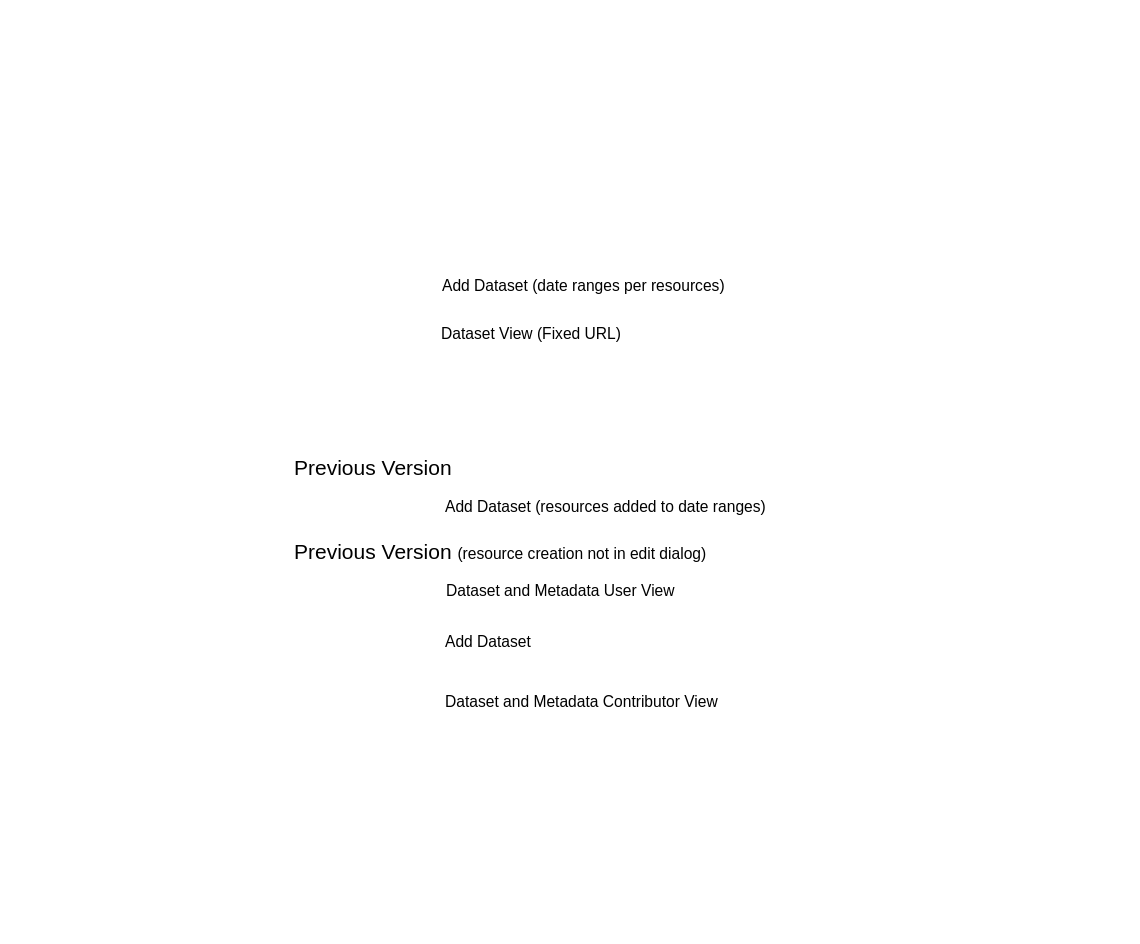
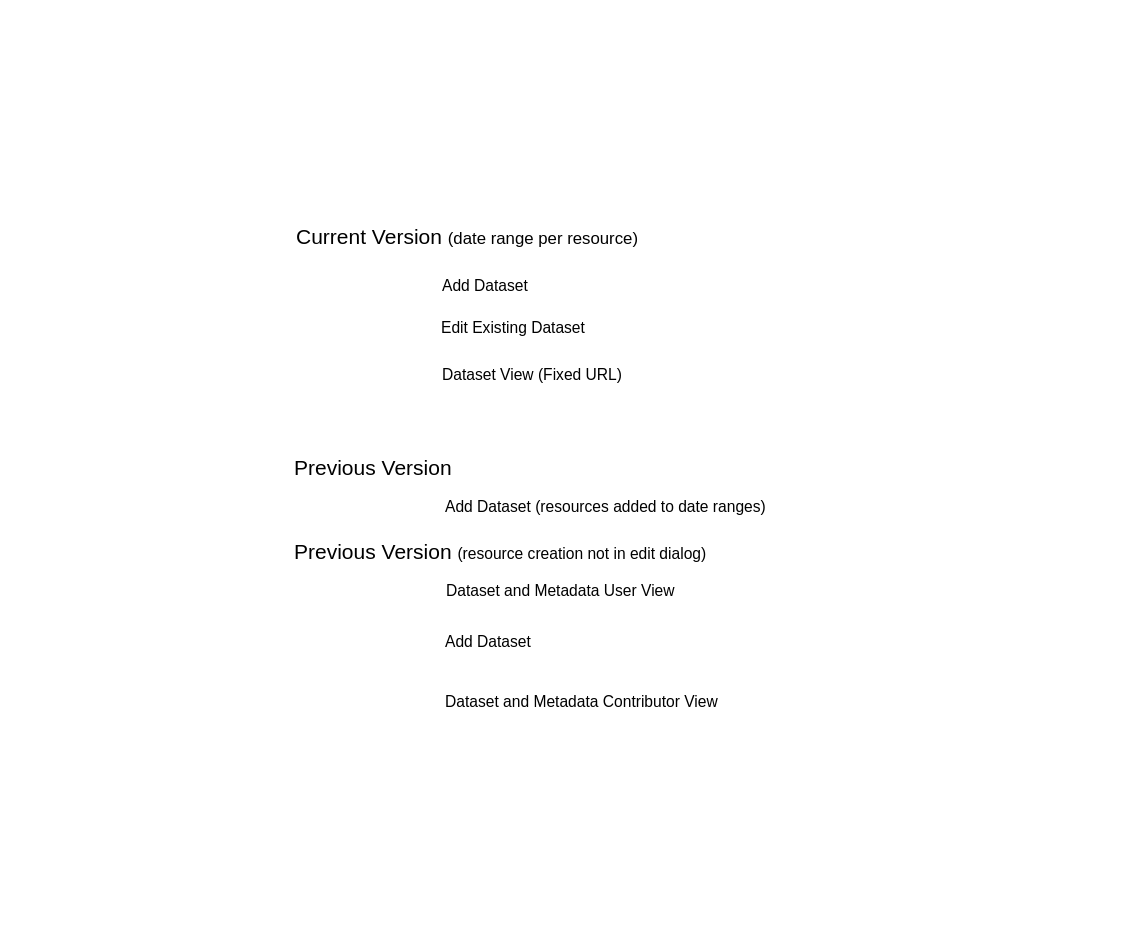
Update

Changed region(s): [[0.2763, 0.2458, 0.6447, 0.3072], [0.3684, 0.3379, 0.5526, 0.3994]]

diff --git a/index.html b/index.html
@@ -1,4 +1,4 @@
 <html xmlns="http://www.w3.org/1999/xhtml" xmlns:p="http://www.evolus.vn/Namespace/Pencil" xmlns:html="http://www.w3.org/1999/xhtml"><head><meta http-equiv="Content-Type" content="text/html; charset=UTF-8" />
 <meta name="viewport" content="width=device-width, initial-scale=1" /><title>DataResources</title><script type="text/javascript" src="Resources/Script.js">
                     //
-                </script></head><body><div id="page"><div id="content"><div class="Page" id="index_page"><div class="Image"><img src="pages/index.png" width="1140" height="944" usemap="#map_index" id="index_page_image" /><div class="ImageFooter"> </div><map name="map_index"><area shape="rect" coords="441,323,621,345" href="#datasetview_page" /><area shape="rect" coords="442,275,725,297" href="#adddatasettabresourceswithdates_page" /><area shape="rect" coords="445,496,766,518" href="#adddatasettabresources_page" /><area shape="rect" coords="445,631,531,653" href="#adddataset_page" /><area shape="rect" coords="445,691,718,713" href="#dataresources2018contrib_page" /><area shape="rect" coords="446,580,675,602" href="#2018dataresources_page" /></map></div></div><div class="Page" id="2018dataresources_page"><div class="Image"><img src="pages/2018dataresources.png" width="1140" height="944" usemap="#map_2018dataresources" id="2018dataresources_page_image" /><div class="ImageFooter"> </div><map name="map_2018dataresources"><area shape="rect" coords="465,800,502,827" href="#2018auxiliarypopulationreportpdf_page" /><area shape="rect" coords="462,729,498,754" href="#2018auxiliarydefinitionstxt_page" /><area shape="rect" coords="521,553,558,579" href="#2018mappopulationmapzippedshp_page" /><area shape="rect" coords="465,553,500,578" href="#2018mappopulationmapgeojson_page" /><area shape="rect" coords="465,295,502,319" href="#2018tabularpopulationaffectedcsv_page" /><area shape="rect" coords="521,295,557,319" href="#2018tabularpopulationaffectedxls_page" /><area shape="rect" coords="168,131,208,187" href="#2017dataresources_page" /></map></div></div><div class="Page" id="2017dataresources_page"><div class="Image"><img src="pages/2017dataresources.png" width="1140" height="944" usemap="#map_2017dataresources" id="2017dataresources_page_image" /><div class="ImageFooter"> </div><map name="map_2017dataresources"><area shape="rect" coords="263,132,303,186" href="#dataresources2016menu_page" /><area shape="rect" coords="77,132,117,186" href="#2018dataresources_page" /></map></div></div><div class="Page" id="2018tabularpopulationaffectedcsv_page"><div class="Image"><img src="pages/2018tabularpopulationaffectedcsv.png" width="1140" height="944" usemap="#map_2018tabularpopulationaffectedcsv" id="2018tabularpopulationaffectedcsv_page_image" /><div class="ImageFooter"> </div><map name="map_2018tabularpopulationaffectedcsv"><area shape="rect" coords="465,800,502,827" href="#2018auxiliarypopulationreportpdf_page" /><area shape="rect" coords="462,729,498,754" href="#2018auxiliarydefinitionstxt_page" /><area shape="rect" coords="521,553,558,579" href="#2018mappopulationmapzippedshp_page" /><area shape="rect" coords="465,553,500,578" href="#2018mappopulationmapgeojson_page" /><area shape="rect" coords="521,295,557,319" href="#2018tabularpopulationaffectedxls_page" /><area shape="rect" coords="168,131,208,187" href="#2017dataresources_page" /></map></div></div><div class="Page" id="2018tabularpopulationaffectedxls_page"><div class="Image"><img src="pages/2018tabularpopulationaffectedxls.png" width="1140" height="944" usemap="#map_2018tabularpopulationaffectedxls" id="2018tabularpopulationaffectedxls_page_image" /><div class="ImageFooter"> </div><map name="map_2018tabularpopulationaffectedxls"><area shape="rect" coords="465,800,502,827" href="#2018auxiliarypopulationreportpdf_page" /><area shape="rect" coords="462,729,498,754" href="#2018auxiliarydefinitionstxt_page" /><area shape="rect" coords="521,553,558,579" href="#2018mappopulationmapzippedshp_page" /><area shape="rect" coords="465,553,500,578" href="#2018mappopulationmapgeojson_page" /><area shape="rect" coords="465,295,502,319" href="#2018tabularpopulationaffectedcsv_page" /><area shape="rect" coords="168,131,208,187" href="#2017dataresources_page" /></map></div></div><div class="Page" id="2018mappopulationmapgeojson_page"><div class="Image"><img src="pages/2018mappopulationmapgeojson.png" width="1140" height="944" usemap="#map_2018mappopulationmapgeojson" id="2018mappopulationmapgeojson_page_image" /><div class="ImageFooter"> </div><map name="map_2018mappopulationmapgeojson"><area shape="rect" coords="465,800,502,827" href="#2018auxiliarypopulationreportpdf_page" /><area shape="rect" coords="462,729,498,754" href="#2018auxiliarydefinitionstxt_page" /><area shape="rect" coords="521,553,558,579" href="#2018mappopulationmapzippedshp_page" /><area shape="rect" coords="465,295,502,319" href="#2018tabularpopulationaffectedcsv_page" /><area shape="rect" coords="521,295,557,319" href="#2018tabularpopulationaffectedxls_page" /><area shape="rect" coords="168,131,208,187" href="#2017dataresources_page" /></map></div></div><div class="Page" id="2018mappopulationmapzippedshp_page"><div class="Image"><img src="pages/2018mappopulationmapzippedshp.png" width="1140" height="944" usemap="#map_2018mappopulationmapzippedshp" id="2018mappopulationmapzippedshp_page_image" /><div class="ImageFooter"> </div><map name="map_2018mappopulationmapzippedshp"><area shape="rect" coords="465,800,502,827" href="#2018auxiliarypopulationreportpdf_page" /><area shape="rect" coords="462,729,498,754" href="#2018auxiliarydefinitionstxt_page" /><area shape="rect" coords="465,553,500,578" href="#2018mappopulationmapgeojson_page" /><area shape="rect" coords="465,295,502,319" href="#2018tabularpopulationaffectedcsv_page" /><area shape="rect" coords="521,295,557,319" href="#2018tabularpopulationaffectedxls_page" /><area shape="rect" coords="168,131,208,187" href="#2017dataresources_page" /></map></div></div><div class="Page" id="2018auxiliarydefinitionstxt_page"><div class="Image"><img src="pages/2018auxiliarydefinitionstxt.png" width="1140" height="944" usemap="#map_2018auxiliarydefinitionstxt" id="2018auxiliarydefinitionstxt_page_image" /><div class="ImageFooter"> </div><map name="map_2018auxiliarydefinitionstxt"><area shape="rect" coords="465,800,502,827" href="#2018auxiliarypopulationreportpdf_page" /><area shape="rect" coords="521,553,558,579" href="#2018mappopulationmapzippedshp_page" /><area shape="rect" coords="465,553,500,578" href="#2018mappopulationmapgeojson_page" /><area shape="rect" coords="465,295,502,319" href="#2018tabularpopulationaffectedcsv_page" /><area shape="rect" coords="521,295,557,319" href="#2018tabularpopulationaffectedxls_page" /><area shape="rect" coords="168,131,208,187" href="#2017dataresources_page" /></map></div></div><div class="Page" id="2018auxiliarypopulationreportpdf_page"><div class="Image"><img src="pages/2018auxiliarypopulationreportpdf.png" width="1140" height="944" usemap="#map_2018auxiliarypopulationreportpdf" id="2018auxiliarypopulationreportpdf_page_image" /><div class="ImageFooter"> </div><map name="map_2018auxiliarypopulationreportpdf"><area shape="rect" coords="462,729,498,754" href="#2018auxiliarydefinitionstxt_page" /><area shape="rect" coords="521,553,558,579" href="#2018mappopulationmapzippedshp_page" /><area shape="rect" coords="465,553,500,578" href="#2018mappopulationmapgeojson_page" /><area shape="rect" coords="465,295,502,319" href="#2018tabularpopulationaffectedcsv_page" /><area shape="rect" coords="521,295,557,319" href="#2018tabularpopulationaffectedxls_page" /><area shape="rect" coords="168,131,208,187" href="#2017dataresources_page" /></map></div></div><div class="Page" id="dataresources2016menu_page"><div class="Image"><img src="pages/dataresources2016menu.png" width="1140" height="944" usemap="#map_dataresources2016menu" id="dataresources2016menu_page_image" /><div class="ImageFooter"> </div><map name="map_dataresources2016menu"><area shape="rect" coords="78,131,117,186" href="#2018dataresources_page" /><area shape="rect" coords="465,800,502,827" href="#2018auxiliarypopulationreportpdf_page" /><area shape="rect" coords="462,729,498,754" href="#2018auxiliarydefinitionstxt_page" /><area shape="rect" coords="521,553,558,579" href="#2018mappopulationmapzippedshp_page" /><area shape="rect" coords="465,553,500,578" href="#2018mappopulationmapgeojson_page" /><area shape="rect" coords="465,295,502,319" href="#2018tabularpopulationaffectedcsv_page" /><area shape="rect" coords="521,295,557,319" href="#2018tabularpopulationaffectedxls_page" /></map></div></div><div class="Page" id="dataresources2018contrib_page"><div class="Image"><img src="pages/dataresources2018contrib.png" width="1140" height="944" usemap="#map_dataresources2018contrib" id="dataresources2018contrib_page_image" /><div class="ImageFooter"> </div><map name="map_dataresources2018contrib"><area shape="rect" coords="575,298,604,342" href="#dataresources2018contribaddresource_page" /><area shape="rect" coords="370,219,470,277" href="#addresourceexisting_page" /><area shape="rect" coords="950,10,1066,85.609375" href="#dataresources2018contribpublic_page" /><area shape="rect" coords="263,131,303,186" href="#dataresources2016menu_page" /><area shape="rect" coords="464,804,501,831" href="#2018auxiliarypopulationreportpdf_page" /><area shape="rect" coords="461,733,497,758" href="#2018auxiliarydefinitionstxt_page" /><area shape="rect" coords="521,553,558,579" href="#2018mappopulationmapzippedshp_page" /><area shape="rect" coords="465,553,500,578" href="#2018mappopulationmapgeojson_page" /><area shape="rect" coords="464,299,501,323" href="#2018tabularpopulationaffectedcsv_page" /><area shape="rect" coords="520,299,556,323" href="#2018tabularpopulationaffectedxls_page" /><area shape="rect" coords="168,131,208,187" href="#2017dataresources_page" /></map></div></div><div class="Page" id="addresource_page"><div class="Image"><img src="pages/addresource.png" width="1140" height="944" usemap="#map_addresource" id="addresource_page_image" /><div class="ImageFooter"> </div></div></div><div class="Page" id="adddataset_page"><div class="Image"><img src="pages/adddataset.png" width="717" height="950" usemap="#map_adddataset" id="adddataset_page_image" /><div class="ImageFooter"> </div><map name="map_adddataset"><area shape="rect" coords="649,920,704,946" href="#noresources_page" /></map></div></div><div class="Page" id="noresources_page"><div class="Image"><img src="pages/noresources.png" width="1140" height="944" usemap="#map_noresources" id="noresources_page_image" /><div class="ImageFooter"> </div><map name="map_noresources"><area shape="rect" coords="370,219,470,277" href="#addresource_page" /></map></div></div><div class="Page" id="dataresources2018contribpublic_page"><div class="Image"><img src="pages/dataresources2018contribpublic.png" width="1140" height="944" usemap="#map_dataresources2018contribpublic" id="dataresources2018contribpublic_page_image" /><div class="ImageFooter"> </div><map name="map_dataresources2018contribpublic"><area shape="rect" coords="370,219,470,277" href="#addresourceexisting_page" /><area shape="rect" coords="945,10,1057,85.609375" href="#dataresources2018contrib_page" /><area shape="rect" coords="263,131,303,186" href="#dataresources2016menu_page" /><area shape="rect" coords="464,804,501,831" href="#2018auxiliarypopulationreportpdf_page" /><area shape="rect" coords="461,733,497,758" href="#2018auxiliarydefinitionstxt_page" /><area shape="rect" coords="521,553,558,579" href="#2018mappopulationmapzippedshp_page" /><area shape="rect" coords="465,553,500,578" href="#2018mappopulationmapgeojson_page" /><area shape="rect" coords="464,299,501,323" href="#2018tabularpopulationaffectedcsv_page" /><area shape="rect" coords="520,299,556,323" href="#2018tabularpopulationaffectedxls_page" /><area shape="rect" coords="168,131,208,187" href="#2017dataresources_page" /></map></div></div><div class="Page" id="dataresources2018contribaddresource_page"><div class="Image"><img src="pages/dataresources2018contribaddresource.png" width="1140" height="944" usemap="#map_dataresources2018contribaddresource" id="dataresources2018contribaddresource_page_image" /><div class="ImageFooter"> </div></div></div><div class="Page" id="addresourceexisting_page"><div class="Image"><img src="pages/addresourceexisting.png" width="1140" height="944" usemap="#map_addresourceexisting" id="addresourceexisting_page_image" /><div class="ImageFooter"> </div></div></div><div class="Page" id="adddatasettabmetadata_page"><div class="Image"><img src="pages/adddatasettabmetadata.png" width="717" height="950" usemap="#map_adddatasettabmetadata" id="adddatasettabmetadata_page_image" /><div class="ImageFooter"> </div><map name="map_adddatasettabmetadata"><area shape="rect" coords="22,13,774.000061035156,59" href="#adddatasettabresources_page" /><area shape="rect" coords="638,919,693,945" href="#noresources_page" /></map></div></div><div class="Page" id="adddatasettabresources_page"><div class="Image"><img src="pages/adddatasettabresources.png" width="717" height="950" usemap="#map_adddatasettabresources" id="adddatasettabresources_page_image" /><div class="ImageFooter"> </div><map name="map_adddatasettabresources"><area shape="rect" coords="176,76,399,115" href="#adddatasettabresources1_page" /><area shape="rect" coords="-16,-15,795,74" href="#adddatasettabmetadata_page" /></map></div></div><div class="Page" id="adddatasettabresources1_page"><div class="Image"><img src="pages/adddatasettabresources1.png" width="717" height="950" usemap="#map_adddatasettabresources1" id="adddatasettabresources1_page_image" /><div class="ImageFooter"> </div><map name="map_adddatasettabresources1"><area shape="rect" coords="176,123,399,162" href="#adddatasettabresources2_page" /><area shape="rect" coords="-16,-15,795,74" href="#adddatasettabmetadata_page" /></map></div></div><div class="Page" id="adddatasettabresources2_page"><div class="Image"><img src="pages/adddatasettabresources2.png" width="717" height="950" usemap="#map_adddatasettabresources2" id="adddatasettabresources2_page_image" /><div class="ImageFooter"> </div><map name="map_adddatasettabresources2"><area shape="rect" coords="498,284,670,316" href="#adddatasettabresources3_page" /><area shape="rect" coords="-16,-15,795,74" href="#adddatasettabmetadata_page" /></map></div></div><div class="Page" id="adddatasettabresources3_page"><div class="Image"><img src="pages/adddatasettabresources3.png" width="717" height="950" usemap="#map_adddatasettabresources3" id="adddatasettabresources3_page_image" /><div class="ImageFooter"> </div><map name="map_adddatasettabresources3"><area shape="rect" coords="56,284,498,316" href="#adddatasettabresources2_page" /><area shape="rect" coords="-16,-15,795,74" href="#adddatasettabmetadata_page" /></map></div></div><div class="Page" id="adddatasettabresourceswithdates_page"><div class="Image"><img src="pages/adddatasettabresourceswithdates.png" width="717" height="950" usemap="#map_adddatasettabresourceswithdates" id="adddatasettabresourceswithdates_page_image" /><div class="ImageFooter"> </div><map name="map_adddatasettabresourceswithdates"><area shape="rect" coords="207.5,220.609375,437.5,253.609375" href="#adddatasettabresourceswithdates1_page" /></map></div></div><div class="Page" id="adddatasettabresourceswithdates1_page"><div class="Image"><img src="pages/adddatasettabresourceswithdates1.png" width="717" height="950" usemap="#map_adddatasettabresourceswithdates1" id="adddatasettabresourceswithdates1_page_image" /><div class="ImageFooter"> </div><map name="map_adddatasettabresourceswithdates1"><area shape="rect" coords="200,329,314,351" href="#adddatasettabresourceswithdates2_page" /></map></div></div><div class="Page" id="adddatasettabresourceswithdates2_page"><div class="Image"><img src="pages/adddatasettabresourceswithdates2.png" width="717" height="950" usemap="#map_adddatasettabresourceswithdates2" id="adddatasettabresourceswithdates2_page_image" /><div class="ImageFooter"> </div><map name="map_adddatasettabresourceswithdates2"><area shape="rect" coords="452,224,477,249" href="#adddatasettabresourceswithdates3_page" /><area shape="rect" coords="61,67,503,99" href="#adddatasettabresources2_page" /></map></div></div><div class="Page" id="adddatasettabresourceswithdates3_page"><div class="Image"><img src="pages/adddatasettabresourceswithdates3.png" width="717" height="950" usemap="#map_adddatasettabresourceswithdates3" id="adddatasettabresourceswithdates3_page_image" /><div class="ImageFooter"> </div><map name="map_adddatasettabresourceswithdates3"><area shape="rect" coords="201,525,315,547" href="#adddatasettabresourceswithdates4_page" /></map></div></div><div class="Page" id="adddatasettabresourceswithdates4_page"><div class="Image"><img src="pages/adddatasettabresourceswithdates4.png" width="717" height="950" usemap="#map_adddatasettabresourceswithdates4" id="adddatasettabresourceswithdates4_page_image" /><div class="ImageFooter"> </div></div></div><div class="Page" id="datasetview_page"><div class="Image"><img src="pages/datasetview.png" width="717" height="950" usemap="#map_datasetview" id="datasetview_page_image" /><div class="ImageFooter"> </div><map name="map_datasetview"><area shape="rect" coords="-11,13,727,351" href="#datasetviewdownload_page" /></map></div></div><div class="Page" id="datasetviewdownload_page"><div class="Image"><img src="pages/datasetviewdownload.png" width="717" height="950" usemap="#map_datasetviewdownload" id="datasetviewdownload_page_image" /><div class="ImageFooter"> </div></div></div></div></div></body></html>
+                </script></head><body><div id="page"><div id="content"><div class="Page" id="index_page"><div class="Image"><img src="pages/index.png" width="1140" height="944" usemap="#map_index" id="index_page_image" /><div class="ImageFooter"> </div><map name="map_index"><area shape="rect" coords="441,317,585,339" href="#adddatasetresourcesnodates_page" /><area shape="rect" coords="442,364,622,386" href="#datasetview_page" /><area shape="rect" coords="442,275,528,297" href="#adddatasetresourceswithdates_page" /><area shape="rect" coords="445,496,766,518" href="#adddatasettabresources_page" /><area shape="rect" coords="445,631,531,653" href="#adddataset_page" /><area shape="rect" coords="445,691,718,713" href="#dataresources2018contrib_page" /><area shape="rect" coords="446,580,675,602" href="#2018dataresources_page" /></map></div></div><div class="Page" id="2018dataresources_page"><div class="Image"><img src="pages/2018dataresources.png" width="1140" height="944" usemap="#map_2018dataresources" id="2018dataresources_page_image" /><div class="ImageFooter"> </div><map name="map_2018dataresources"><area shape="rect" coords="465,800,502,827" href="#2018auxiliarypopulationreportpdf_page" /><area shape="rect" coords="462,729,498,754" href="#2018auxiliarydefinitionstxt_page" /><area shape="rect" coords="521,553,558,579" href="#2018mappopulationmapzippedshp_page" /><area shape="rect" coords="465,553,500,578" href="#2018mappopulationmapgeojson_page" /><area shape="rect" coords="465,295,502,319" href="#2018tabularpopulationaffectedcsv_page" /><area shape="rect" coords="521,295,557,319" href="#2018tabularpopulationaffectedxls_page" /><area shape="rect" coords="168,131,208,187" href="#2017dataresources_page" /></map></div></div><div class="Page" id="2017dataresources_page"><div class="Image"><img src="pages/2017dataresources.png" width="1140" height="944" usemap="#map_2017dataresources" id="2017dataresources_page_image" /><div class="ImageFooter"> </div><map name="map_2017dataresources"><area shape="rect" coords="263,132,303,186" href="#dataresources2016menu_page" /><area shape="rect" coords="77,132,117,186" href="#2018dataresources_page" /></map></div></div><div class="Page" id="2018tabularpopulationaffectedcsv_page"><div class="Image"><img src="pages/2018tabularpopulationaffectedcsv.png" width="1140" height="944" usemap="#map_2018tabularpopulationaffectedcsv" id="2018tabularpopulationaffectedcsv_page_image" /><div class="ImageFooter"> </div><map name="map_2018tabularpopulationaffectedcsv"><area shape="rect" coords="465,800,502,827" href="#2018auxiliarypopulationreportpdf_page" /><area shape="rect" coords="462,729,498,754" href="#2018auxiliarydefinitionstxt_page" /><area shape="rect" coords="521,553,558,579" href="#2018mappopulationmapzippedshp_page" /><area shape="rect" coords="465,553,500,578" href="#2018mappopulationmapgeojson_page" /><area shape="rect" coords="521,295,557,319" href="#2018tabularpopulationaffectedxls_page" /><area shape="rect" coords="168,131,208,187" href="#2017dataresources_page" /></map></div></div><div class="Page" id="2018tabularpopulationaffectedxls_page"><div class="Image"><img src="pages/2018tabularpopulationaffectedxls.png" width="1140" height="944" usemap="#map_2018tabularpopulationaffectedxls" id="2018tabularpopulationaffectedxls_page_image" /><div class="ImageFooter"> </div><map name="map_2018tabularpopulationaffectedxls"><area shape="rect" coords="465,800,502,827" href="#2018auxiliarypopulationreportpdf_page" /><area shape="rect" coords="462,729,498,754" href="#2018auxiliarydefinitionstxt_page" /><area shape="rect" coords="521,553,558,579" href="#2018mappopulationmapzippedshp_page" /><area shape="rect" coords="465,553,500,578" href="#2018mappopulationmapgeojson_page" /><area shape="rect" coords="465,295,502,319" href="#2018tabularpopulationaffectedcsv_page" /><area shape="rect" coords="168,131,208,187" href="#2017dataresources_page" /></map></div></div><div class="Page" id="2018mappopulationmapgeojson_page"><div class="Image"><img src="pages/2018mappopulationmapgeojson.png" width="1140" height="944" usemap="#map_2018mappopulationmapgeojson" id="2018mappopulationmapgeojson_page_image" /><div class="ImageFooter"> </div><map name="map_2018mappopulationmapgeojson"><area shape="rect" coords="465,800,502,827" href="#2018auxiliarypopulationreportpdf_page" /><area shape="rect" coords="462,729,498,754" href="#2018auxiliarydefinitionstxt_page" /><area shape="rect" coords="521,553,558,579" href="#2018mappopulationmapzippedshp_page" /><area shape="rect" coords="465,295,502,319" href="#2018tabularpopulationaffectedcsv_page" /><area shape="rect" coords="521,295,557,319" href="#2018tabularpopulationaffectedxls_page" /><area shape="rect" coords="168,131,208,187" href="#2017dataresources_page" /></map></div></div><div class="Page" id="2018mappopulationmapzippedshp_page"><div class="Image"><img src="pages/2018mappopulationmapzippedshp.png" width="1140" height="944" usemap="#map_2018mappopulationmapzippedshp" id="2018mappopulationmapzippedshp_page_image" /><div class="ImageFooter"> </div><map name="map_2018mappopulationmapzippedshp"><area shape="rect" coords="465,800,502,827" href="#2018auxiliarypopulationreportpdf_page" /><area shape="rect" coords="462,729,498,754" href="#2018auxiliarydefinitionstxt_page" /><area shape="rect" coords="465,553,500,578" href="#2018mappopulationmapgeojson_page" /><area shape="rect" coords="465,295,502,319" href="#2018tabularpopulationaffectedcsv_page" /><area shape="rect" coords="521,295,557,319" href="#2018tabularpopulationaffectedxls_page" /><area shape="rect" coords="168,131,208,187" href="#2017dataresources_page" /></map></div></div><div class="Page" id="2018auxiliarydefinitionstxt_page"><div class="Image"><img src="pages/2018auxiliarydefinitionstxt.png" width="1140" height="944" usemap="#map_2018auxiliarydefinitionstxt" id="2018auxiliarydefinitionstxt_page_image" /><div class="ImageFooter"> </div><map name="map_2018auxiliarydefinitionstxt"><area shape="rect" coords="465,800,502,827" href="#2018auxiliarypopulationreportpdf_page" /><area shape="rect" coords="521,553,558,579" href="#2018mappopulationmapzippedshp_page" /><area shape="rect" coords="465,553,500,578" href="#2018mappopulationmapgeojson_page" /><area shape="rect" coords="465,295,502,319" href="#2018tabularpopulationaffectedcsv_page" /><area shape="rect" coords="521,295,557,319" href="#2018tabularpopulationaffectedxls_page" /><area shape="rect" coords="168,131,208,187" href="#2017dataresources_page" /></map></div></div><div class="Page" id="2018auxiliarypopulationreportpdf_page"><div class="Image"><img src="pages/2018auxiliarypopulationreportpdf.png" width="1140" height="944" usemap="#map_2018auxiliarypopulationreportpdf" id="2018auxiliarypopulationreportpdf_page_image" /><div class="ImageFooter"> </div><map name="map_2018auxiliarypopulationreportpdf"><area shape="rect" coords="462,729,498,754" href="#2018auxiliarydefinitionstxt_page" /><area shape="rect" coords="521,553,558,579" href="#2018mappopulationmapzippedshp_page" /><area shape="rect" coords="465,553,500,578" href="#2018mappopulationmapgeojson_page" /><area shape="rect" coords="465,295,502,319" href="#2018tabularpopulationaffectedcsv_page" /><area shape="rect" coords="521,295,557,319" href="#2018tabularpopulationaffectedxls_page" /><area shape="rect" coords="168,131,208,187" href="#2017dataresources_page" /></map></div></div><div class="Page" id="dataresources2016menu_page"><div class="Image"><img src="pages/dataresources2016menu.png" width="1140" height="944" usemap="#map_dataresources2016menu" id="dataresources2016menu_page_image" /><div class="ImageFooter"> </div><map name="map_dataresources2016menu"><area shape="rect" coords="78,131,117,186" href="#2018dataresources_page" /><area shape="rect" coords="465,800,502,827" href="#2018auxiliarypopulationreportpdf_page" /><area shape="rect" coords="462,729,498,754" href="#2018auxiliarydefinitionstxt_page" /><area shape="rect" coords="521,553,558,579" href="#2018mappopulationmapzippedshp_page" /><area shape="rect" coords="465,553,500,578" href="#2018mappopulationmapgeojson_page" /><area shape="rect" coords="465,295,502,319" href="#2018tabularpopulationaffectedcsv_page" /><area shape="rect" coords="521,295,557,319" href="#2018tabularpopulationaffectedxls_page" /></map></div></div><div class="Page" id="dataresources2018contrib_page"><div class="Image"><img src="pages/dataresources2018contrib.png" width="1140" height="944" usemap="#map_dataresources2018contrib" id="dataresources2018contrib_page_image" /><div class="ImageFooter"> </div><map name="map_dataresources2018contrib"><area shape="rect" coords="575,298,604,342" href="#dataresources2018contribaddresource_page" /><area shape="rect" coords="370,219,470,277" href="#addresourceexisting_page" /><area shape="rect" coords="950,10,1066,85.609375" href="#dataresources2018contribpublic_page" /><area shape="rect" coords="263,131,303,186" href="#dataresources2016menu_page" /><area shape="rect" coords="464,804,501,831" href="#2018auxiliarypopulationreportpdf_page" /><area shape="rect" coords="461,733,497,758" href="#2018auxiliarydefinitionstxt_page" /><area shape="rect" coords="521,553,558,579" href="#2018mappopulationmapzippedshp_page" /><area shape="rect" coords="465,553,500,578" href="#2018mappopulationmapgeojson_page" /><area shape="rect" coords="464,299,501,323" href="#2018tabularpopulationaffectedcsv_page" /><area shape="rect" coords="520,299,556,323" href="#2018tabularpopulationaffectedxls_page" /><area shape="rect" coords="168,131,208,187" href="#2017dataresources_page" /></map></div></div><div class="Page" id="addresource_page"><div class="Image"><img src="pages/addresource.png" width="1140" height="944" usemap="#map_addresource" id="addresource_page_image" /><div class="ImageFooter"> </div></div></div><div class="Page" id="adddataset_page"><div class="Image"><img src="pages/adddataset.png" width="717" height="950" usemap="#map_adddataset" id="adddataset_page_image" /><div class="ImageFooter"> </div><map name="map_adddataset"><area shape="rect" coords="649,920,704,946" href="#noresources_page" /></map></div></div><div class="Page" id="noresources_page"><div class="Image"><img src="pages/noresources.png" width="1140" height="944" usemap="#map_noresources" id="noresources_page_image" /><div class="ImageFooter"> </div><map name="map_noresources"><area shape="rect" coords="370,219,470,277" href="#addresource_page" /></map></div></div><div class="Page" id="dataresources2018contribpublic_page"><div class="Image"><img src="pages/dataresources2018contribpublic.png" width="1140" height="944" usemap="#map_dataresources2018contribpublic" id="dataresources2018contribpublic_page_image" /><div class="ImageFooter"> </div><map name="map_dataresources2018contribpublic"><area shape="rect" coords="370,219,470,277" href="#addresourceexisting_page" /><area shape="rect" coords="945,10,1057,85.609375" href="#dataresources2018contrib_page" /><area shape="rect" coords="263,131,303,186" href="#dataresources2016menu_page" /><area shape="rect" coords="464,804,501,831" href="#2018auxiliarypopulationreportpdf_page" /><area shape="rect" coords="461,733,497,758" href="#2018auxiliarydefinitionstxt_page" /><area shape="rect" coords="521,553,558,579" href="#2018mappopulationmapzippedshp_page" /><area shape="rect" coords="465,553,500,578" href="#2018mappopulationmapgeojson_page" /><area shape="rect" coords="464,299,501,323" href="#2018tabularpopulationaffectedcsv_page" /><area shape="rect" coords="520,299,556,323" href="#2018tabularpopulationaffectedxls_page" /><area shape="rect" coords="168,131,208,187" href="#2017dataresources_page" /></map></div></div><div class="Page" id="dataresources2018contribaddresource_page"><div class="Image"><img src="pages/dataresources2018contribaddresource.png" width="1140" height="944" usemap="#map_dataresources2018contribaddresource" id="dataresources2018contribaddresource_page_image" /><div class="ImageFooter"> </div></div></div><div class="Page" id="addresourceexisting_page"><div class="Image"><img src="pages/addresourceexisting.png" width="1140" height="944" usemap="#map_addresourceexisting" id="addresourceexisting_page_image" /><div class="ImageFooter"> </div></div></div><div class="Page" id="adddatasettabmetadata_page"><div class="Image"><img src="pages/adddatasettabmetadata.png" width="717" height="950" usemap="#map_adddatasettabmetadata" id="adddatasettabmetadata_page_image" /><div class="ImageFooter"> </div><map name="map_adddatasettabmetadata"><area shape="rect" coords="22,13,774.000061035156,59" href="#adddatasettabresources_page" /><area shape="rect" coords="638,919,693,945" href="#noresources_page" /></map></div></div><div class="Page" id="adddatasettabresources_page"><div class="Image"><img src="pages/adddatasettabresources.png" width="717" height="950" usemap="#map_adddatasettabresources" id="adddatasettabresources_page_image" /><div class="ImageFooter"> </div><map name="map_adddatasettabresources"><area shape="rect" coords="176,76,399,115" href="#adddatasettabresources1_page" /><area shape="rect" coords="-16,-15,795,74" href="#adddatasettabmetadata_page" /></map></div></div><div class="Page" id="adddatasettabresources1_page"><div class="Image"><img src="pages/adddatasettabresources1.png" width="717" height="950" usemap="#map_adddatasettabresources1" id="adddatasettabresources1_page_image" /><div class="ImageFooter"> </div><map name="map_adddatasettabresources1"><area shape="rect" coords="176,123,399,162" href="#adddatasettabresources2_page" /><area shape="rect" coords="-16,-15,795,74" href="#adddatasettabmetadata_page" /></map></div></div><div class="Page" id="adddatasettabresources2_page"><div class="Image"><img src="pages/adddatasettabresources2.png" width="717" height="950" usemap="#map_adddatasettabresources2" id="adddatasettabresources2_page_image" /><div class="ImageFooter"> </div><map name="map_adddatasettabresources2"><area shape="rect" coords="498,284,670,316" href="#adddatasettabresources3_page" /><area shape="rect" coords="-16,-15,795,74" href="#adddatasettabmetadata_page" /></map></div></div><div class="Page" id="adddatasettabresources3_page"><div class="Image"><img src="pages/adddatasettabresources3.png" width="717" height="950" usemap="#map_adddatasettabresources3" id="adddatasettabresources3_page_image" /><div class="ImageFooter"> </div><map name="map_adddatasettabresources3"><area shape="rect" coords="56,284,498,316" href="#adddatasettabresources2_page" /><area shape="rect" coords="-16,-15,795,74" href="#adddatasettabmetadata_page" /></map></div></div><div class="Page" id="adddatasetresourceswithdates_page"><div class="Image"><img src="pages/adddatasetresourceswithdates.png" width="717" height="950" usemap="#map_adddatasetresourceswithdates" id="adddatasetresourceswithdates_page_image" /><div class="ImageFooter"> </div><map name="map_adddatasetresourceswithdates"><area shape="rect" coords="207.5,220.609375,437.5,253.609375" href="#adddatasetresourceswithdates1_page" /></map></div></div><div class="Page" id="adddatasetresourceswithdates1_page"><div class="Image"><img src="pages/adddatasetresourceswithdates1.png" width="717" height="950" usemap="#map_adddatasetresourceswithdates1" id="adddatasetresourceswithdates1_page_image" /><div class="ImageFooter"> </div><map name="map_adddatasetresourceswithdates1"><area shape="rect" coords="200,329,314,351" href="#adddatasetresourceswithdates2_page" /></map></div></div><div class="Page" id="adddatasetresourceswithdates2_page"><div class="Image"><img src="pages/adddatasetresourceswithdates2.png" width="717" height="950" usemap="#map_adddatasetresourceswithdates2" id="adddatasetresourceswithdates2_page_image" /><div class="ImageFooter"> </div><map name="map_adddatasetresourceswithdates2"><area shape="rect" coords="452,224,477,249" href="#adddatasetresourceswithdates3_page" /><area shape="rect" coords="61,67,503,99" href="#adddatasettabresources2_page" /></map></div></div><div class="Page" id="adddatasetresourceswithdates3_page"><div class="Image"><img src="pages/adddatasetresourceswithdates3.png" width="717" height="950" usemap="#map_adddatasetresourceswithdates3" id="adddatasetresourceswithdates3_page_image" /><div class="ImageFooter"> </div><map name="map_adddatasetresourceswithdates3"><area shape="rect" coords="201,525,315,547" href="#adddatasetresourceswithdates4_page" /></map></div></div><div class="Page" id="adddatasetresourceswithdates4_page"><div class="Image"><img src="pages/adddatasetresourceswithdates4.png" width="717" height="950" usemap="#map_adddatasetresourceswithdates4" id="adddatasetresourceswithdates4_page_image" /><div class="ImageFooter"> </div></div></div><div class="Page" id="datasetview_page"><div class="Image"><img src="pages/datasetview.png" width="717" height="950" usemap="#map_datasetview" id="datasetview_page_image" /><div class="ImageFooter"> </div><map name="map_datasetview"><area shape="rect" coords="-11,13,727,351" href="#datasetviewdownload_page" /></map></div></div><div class="Page" id="datasetviewdownload_page"><div class="Image"><img src="pages/datasetviewdownload.png" width="717" height="950" usemap="#map_datasetviewdownload" id="datasetviewdownload_page_image" /><div class="ImageFooter"> </div></div></div><div class="Page" id="adddatasetresourcesnodates_page"><div class="Image"><img src="pages/adddatasetresourcesnodates.png" width="717" height="950" usemap="#map_adddatasetresourcesnodates" id="adddatasetresourcesnodates_page_image" /><div class="ImageFooter"> </div></div></div></div></div></body></html>
